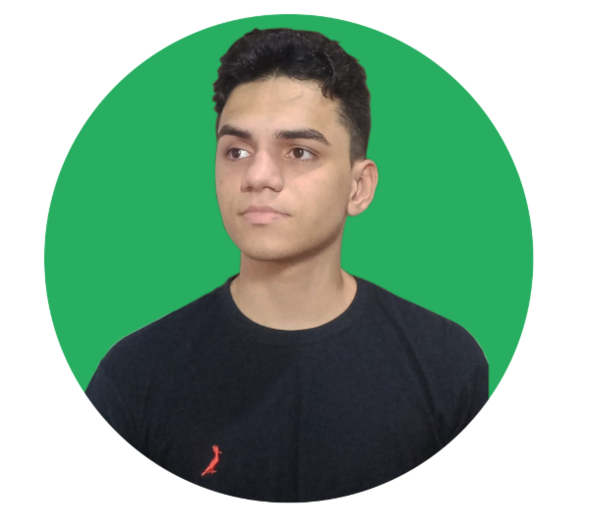
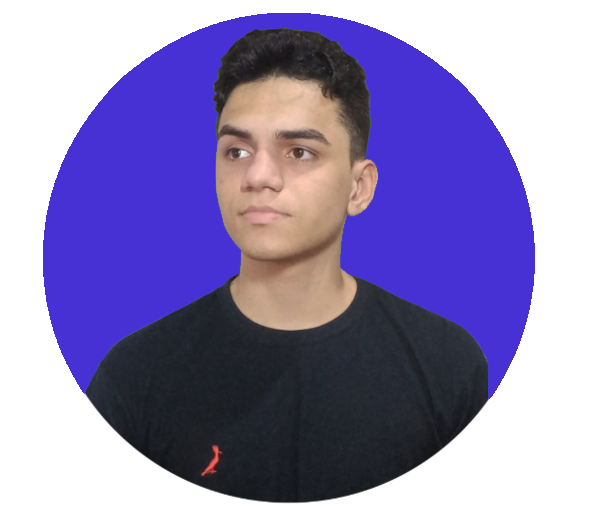
foto adicionada

Changed region(s): [[0.061, 0.0, 0.9153, 0.8004]]

diff --git a/style/style.css b/style/style.css
@@ -114,7 +114,8 @@ header > img {
 }
 
 .img-profile {
-  background-color: #b7c0d4;
+  background: var(--cor-primaria) url('../assets/foto-perfil.png') center center;
+  background-size: cover;
   height: 322px;
   width: 322px;
   border-radius: 51% 49% 50% 50% / 37% 37% 63% 63%;
